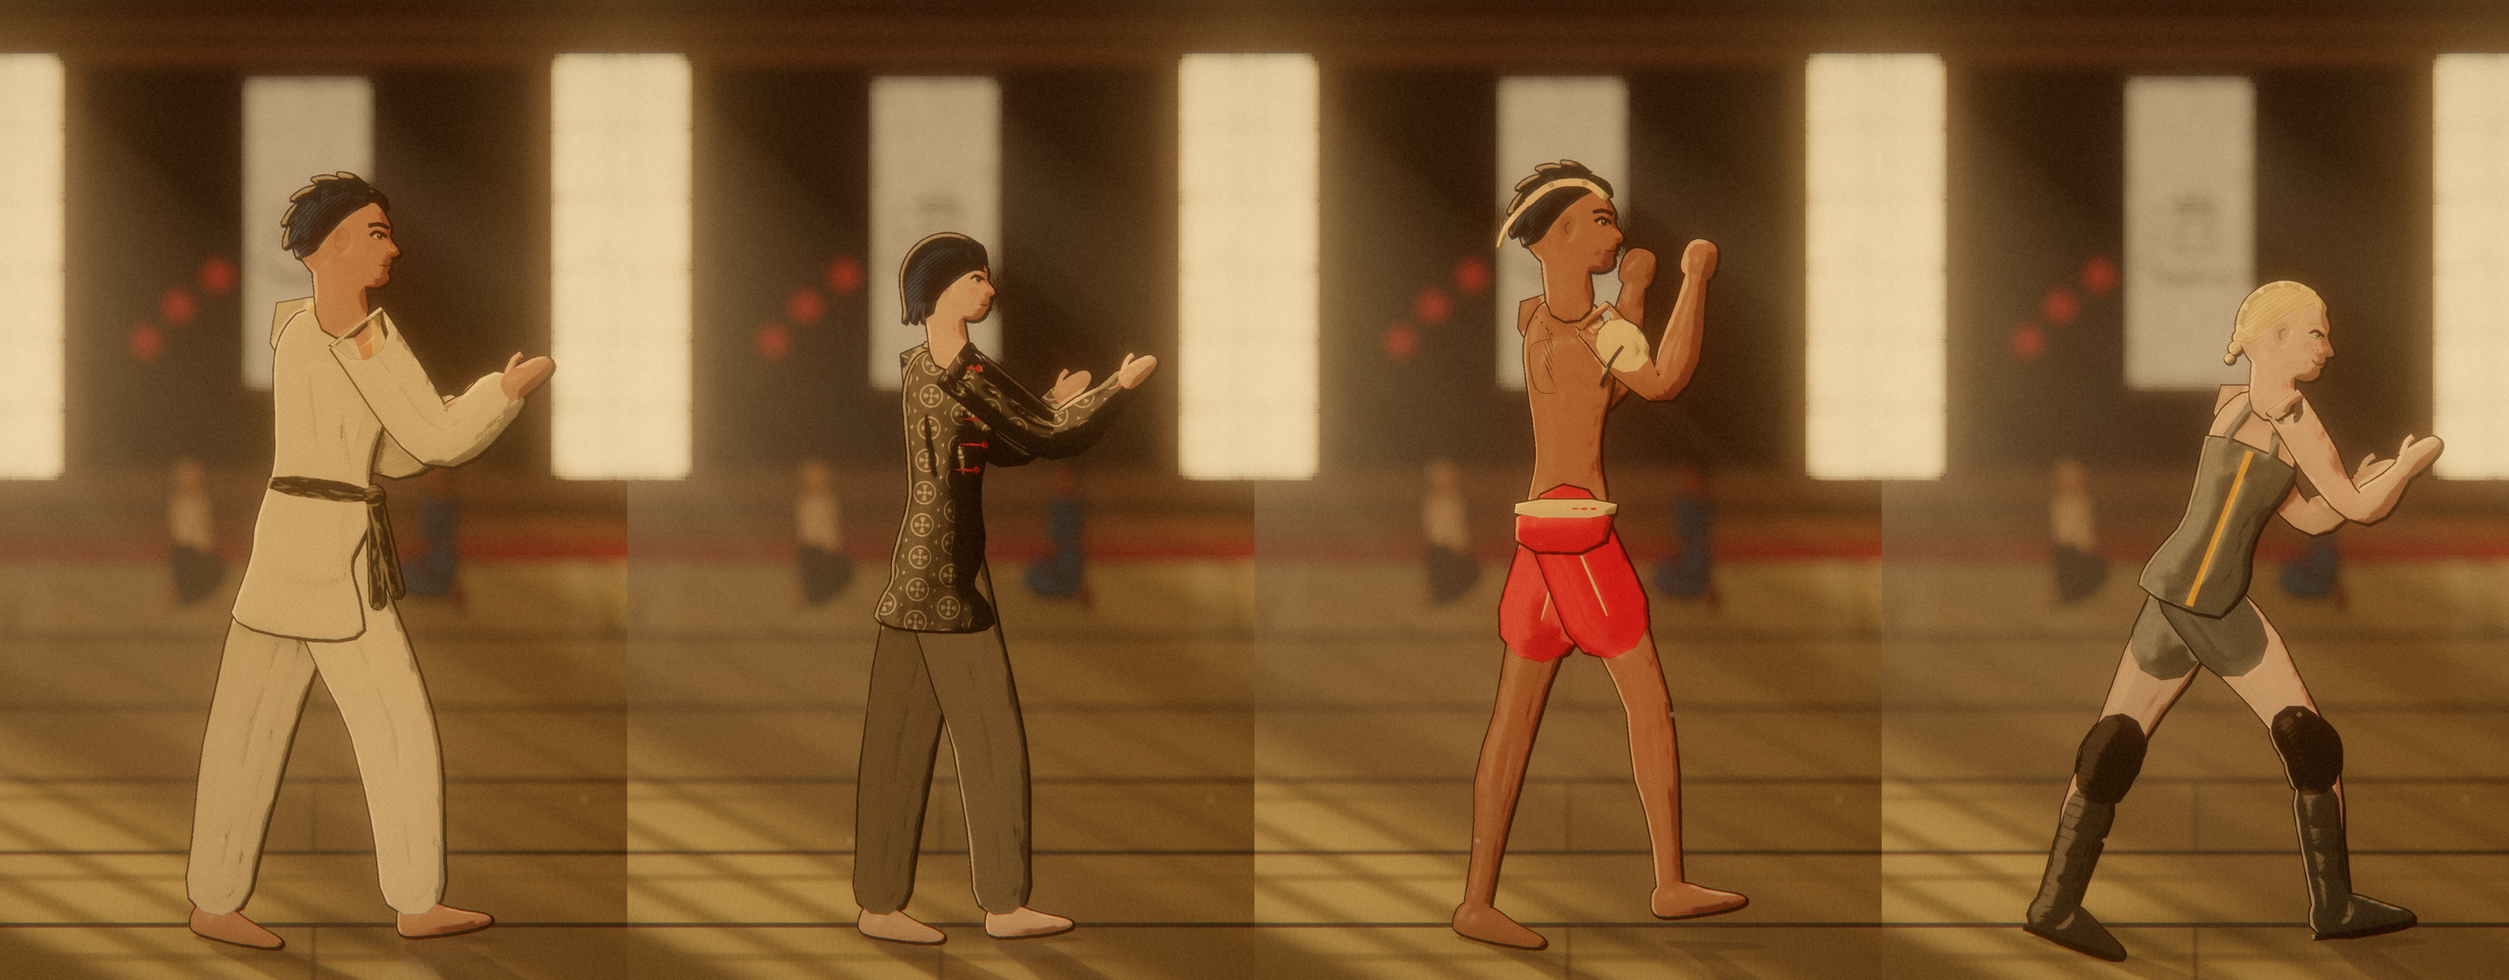
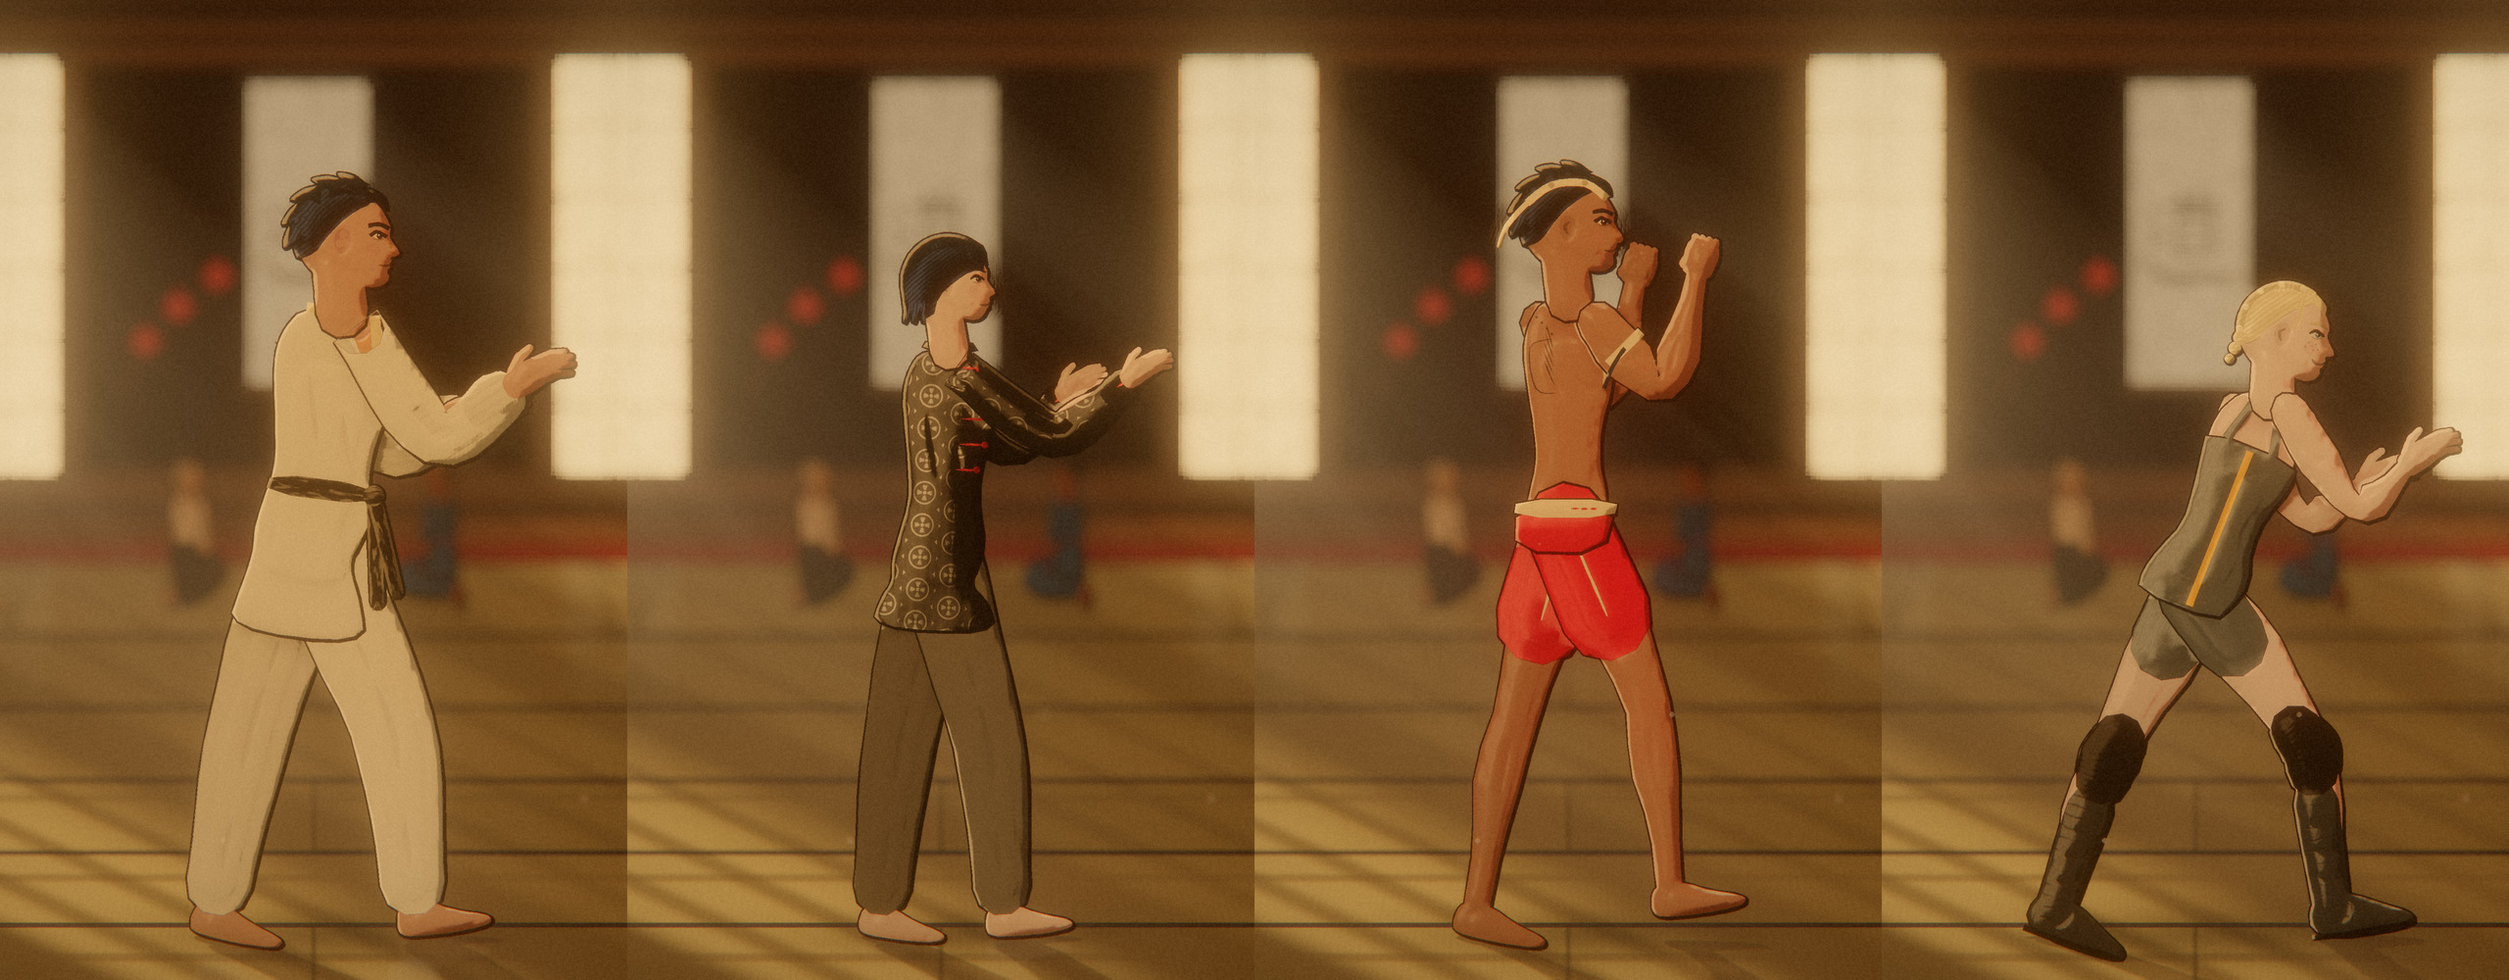
Brazos y manos anatómicos; tejidos limpios sin rayones
- Manos: mano abierta con palma, cuatro dedos de dos falanges y pulgar, cada
  pieza con su contorno (antes los dedos eran surcos que la GPU no pintaba y
  la mano quedaba en paleta); puño con dedos plegados y pulgar cruzado.
- Brazo desnudo: tríceps, bíceps, codo estrecho, antebrazo y muñeca, con
  deltoides que cubre el hombro; el cordón prajied es una banda, no un disco.
- Manga del gi: nace en la costura del hombro, cae sin bulto en el codo, se
  abre hacia el puño y lleva un puño reforzado con pespuntes.
- Cuerpo fibroso con algo más de masa en brazos y piernas.
- Tejidos: los pliegues son arrugas anchas y poco profundas en el relieve (antes
  se leían como rayones oscuros); grano, sarga, lona, lino y caída más sutiles;
  pincelada del borde de sombra y trama de la sombra más discretas.
- Carteles regenerados en 4K.

Claude-Session: https://claude.ai/code/session_01GCEmTRu6hx8Pncz6RpNkUS

diff --git a/tatamido/render_fighter.py b/tatamido/render_fighter.py
@@ -675,8 +675,10 @@ def _render_data(fig: Figure, surf, T, k, ow, fac=1, shared=None, inv=1.0, id_ba
                 pts, w, closed, taper = geo
                 P = [T(q) for q in pts]
                 if len(P) >= 2:
-                    val = (max(0, h0 - 22), pid, spec) if groove else (h0 + 4, pid, spec)
-                    wpx = max(1.0, w * k * (1.6 if groove else 1.0))
+                    # surco: pliegue o músculo ancho y poco profundo (una arruga, no un corte)
+                    gd = 12 if mat == "skin" else 8
+                    val = (max(0, h0 - gd), pid, spec) if groove else (h0 + 4, pid, spec)
+                    wpx = max(1.0, w * k * ((2.2 if mat == "skin" else 2.8) if groove else 1.0))
                     if pf is not None and not groove:
                         bp = [(x * inv, y * inv) for x, y in pf]
                     else:
@@ -688,7 +690,7 @@ def _render_data(fig: Figure, surf, T, k, ow, fac=1, shared=None, inv=1.0, id_ba
             elif kind == "dot":
                 c, r = geo
                 cc = T(c)
-                val = (max(0, h0 - 22), pid, spec) if groove else (h0 + 4, pid, spec)
+                val = (max(0, h0 - 10), pid, spec) if groove else (h0 + 4, pid, spec)
                 pygame.draw.circle(surf, val, (int(cc[0]), int(cc[1])), max(1, int(r * k)))
     return pieces
 
@@ -1396,22 +1398,6 @@ def build_figure(f, pose, rig, mono=False, raw=False) -> Figure:
     sleeve = lk.get("sleeve", 0.0) if top in ("gi", "kurtka", "changshan", "keikogi") else 0.0
     open_hand = (f.state == Fighter.THROWING or (f.state == Fighter.ATTACK and f.move is not None and f.move.anim == "grab")
                  or (lk.get("guard_open") and f.state in (Fighter.IDLE, Fighter.WALK, Fighter.INTRO)))
-    def arm_keys(L1, L2):
-        """Deltoides, tríceps detrás, bíceps delante, codo, masa del antebrazo y muñeca fina."""
-        ue = L1 / max(1e-6, L1 + L2)
-        back = [(0.0, up0 * 1.05), (ue * 0.45, up0 * 0.92 + upb * 0.6), (ue * 0.9, up1 * 1.05), (ue, up1 * 0.95),
-                (ue + (1 - ue) * 0.25, fo0 + fob * 0.5), (1.0, fo1)]
-        front = [(0.0, up0), (ue * 0.5, up0 * 0.9 + upb), (ue * 0.9, up1), (ue, up1 * 0.92),
-                 (ue + (1 - ue) * 0.22, fo0 * 1.05 + fob), (1.0, fo1)]
-        return back, front
-
-    def with_delt(keys_l, keys_r, D0, sh, rest, r0):
-        """Antepone el tramo del deltoides (de dentro del hombro a la articulación) a un perfil de brazo."""
-        Ld = dist(D0, sh)
-        tot = max(1e-6, Ld + rest)
-        f_ = lambda ks: [(0.0, r0)] + [((Ld + u * rest) / tot, v) for u, v in ks]
-        return f_(keys_l), f_(keys_r)
-
     def hand_frame(el, hd):
         fx_, fy_ = _norm(hd[0] - el[0], hd[1] - el[1])
         if fx_ == 0 and fy_ == 0:
@@ -1425,49 +1411,72 @@ def build_figure(f, pose, rig, mono=False, raw=False) -> Figure:
         sk = C(skin, el[0], depth)
         fore_sk = mixc(sk, (205, 80, 70), min(0.4, 0.4 * red)) if not mono else sk
         L1, L2 = dist(sh, el), dist(el, hd)
+        fx_, fy_ = _norm(el[0] - sh[0], el[1] - sh[1])
+        cap = (sh[0] - fx_ * B["delt"] * 0.35, sh[1] - fy_ * B["delt"] * 0.35)     # remate del hombro, tapado por el torso
         if sleeve > 0:
-            slc = C(cloth, el[0], depth)
-            fig.ribbon(g, [el, _lerp2(el, hd, 0.5), hd], [(0, fo0 + fob * 0.5), (0.3, fo0 + fob * 0.6), (1, fo1)],
-                       [(0, fo0), (0.3, fo0 + fob), (1, fo1)], fore_sk, sheen=skin_sheen)
+            # antebrazo que asoma por la manga
+            fig.ribbon(g, [el, _lerp2(el, hd, 0.5), hd], [(0, fo0 + fob * 0.5), (0.3, fo0 + fob * 0.6), (0.85, fo1 * 0.95), (1, fo1 * 0.9)],
+                       [(0, fo0), (0.3, fo0 + fob), (0.85, fo1 * 0.95), (1, fo1 * 0.9)], fore_sk, sheen=skin_sheen)
             fig.m("cloth")
+            slc = C(cloth, el[0], depth)
             cut = _lerp2(el, hd, sleeve)
-            wide = 3.6 if top != "changshan" else 1.6
-            ue = L1 / max(1e-6, L1 + dist(el, cut))
-            D0 = _lerp2(sh, N, 0.16)
-            kl_, kr_ = with_delt([(0, B["delt"] + 2.0), (ue * 0.6, up0 + 2.2), (ue, up1 + 3.2), (1, fo1 + wide)],
-                                 [(0, B["delt"] + 1.6), (ue * 0.6, up0 + 2.6), (ue, up1 + 2.6), (1, fo1 + wide - 0.4)],
-                                 D0, sh, L1 + dist(el, cut), B["delt"] + 1.0)
-            fig.ribbon(g, [D0, sh, el, cut], kl_, kr_, slc, sheen=0.5, edge=True)
+            wide = 3.4 if top != "changshan" else 1.4
+            Ls = dist(cap, sh) + L1 + dist(el, cut)
+            us, ue = dist(cap, sh) / Ls, (dist(cap, sh) + L1) / Ls
+            # manga de caída: hombro redondo, sin bulto en el codo, se abre hacia el puño y cuelga por debajo
+            fig.ribbon(g, [cap, sh, el, cut],
+                       [(0, B["delt"] + 0.5), (us, B["delt"] + 0.6), (ue * 0.75, up0 + 2.2), (ue, up1 + 2.8), (1, fo1 + wide + 0.6)],
+                       [(0, B["delt"] + 0.3), (us, B["delt"] + 0.4), (ue * 0.75, up0 + 1.9), (ue, up1 + 2.2), (1, fo1 + wide - 0.2)],
+                       slc, sheen=0.5, edge=True)
+            # puño de la manga: refuerzo con pespuntes
+            fig.m("cloth", pat="stitch")
+            c0 = _lerp2(el, cut, 0.84)
+            fig.ribbon(g, [c0, _lerp2(c0, cut, 0.5), cut], [(0, fo1 + wide + 0.5), (1, fo1 + wide + 0.75)],
+                       [(0, fo1 + wide - 0.2), (1, fo1 + wide - 0.05)], shade(slc, 0.95), sheen=0.4)
             fig.m("cloth", True)
-            # pliegues de la manga: en zigzag junto al codo, como tela que se recoge
-            fig.line(g, [_lerp2(sh, el, 0.5), _lerp2(sh, el, 0.82), _lerp2(el, cut, 0.12)], shade(slc, 0.78), 0.45)
-            fig.line(g, [_lerp2(el, cut, 0.25), _lerp2(el, cut, 0.4)], shade(slc, 0.8), 0.4)
-            fig.line(g, [_lerp2(sh, el, 0.2), _lerp2(sh, el, 0.38)], shade(slc, 0.82), 0.35)
+            fig.line(g, [_lerp2(sh, el, 0.72), _lerp2(el, cut, 0.06), _lerp2(el, cut, 0.22)], shade(slc, 0.8), 0.9)   # pliegue del codo
             if top == "changshan":
                 fig.m("cloth")
                 fig.line(g, [_lerp2(el, cut, 0.9), cut], C(lk["accent"], el[0], depth), 0.5)
         else:
             fig.m("skin")
-            kb, kf = arm_keys(L1, L2)
-            kb[0] = (0.0, B["delt"] * 1.02)
-            kf[0] = (0.0, B["delt"] * 0.92)
-            D0 = _lerp2(sh, N, 0.16)
-            kb, kf = with_delt(kb, kf, D0, sh, L1 + L2, B["delt"] * 0.8)
-            fig.ribbon(g, [D0, sh, el, hd], kb, kf, fore_sk if red > 0.15 else sk, sheen=skin_sheen)
+            arm_c = fore_sk if red > 0.15 else sk
+            ue = L1 / max(1e-6, L1 + L2)
+            # brazo: tríceps detrás, bíceps delante, codo estrecho, masa del antebrazo y muñeca fina
+            back = [(0.0, up0 * 1.02), (ue * 0.4, up0 * 0.98 + upb * 0.7), (ue * 0.85, up1 * 0.95), (ue, up1 * 0.82),
+                    (ue + (1 - ue) * 0.22, fo0 + fob * 0.45), (ue + (1 - ue) * 0.7, fo1 * 1.1), (1.0, fo1 * 0.85)]
+            front = [(0.0, up0 * 0.95), (ue * 0.55, up0 * 0.92 + upb), (ue * 0.88, up1 * 0.92), (ue, up1 * 0.8),
+                     (ue + (1 - ue) * 0.25, fo0 * 1.02 + fob), (ue + (1 - ue) * 0.72, fo1 * 1.08), (1.0, fo1 * 0.85)]
+            fig.ribbon(g, [sh, el, hd], back, front, arm_c, sheen=skin_sheen)
+            # deltoides: la cápsula del hombro que cubre la articulación
+            dtip = _lerp2(sh, el, 0.45)
+            fig.ribbon(g, [cap, sh, dtip], [(0, B["delt"] * 0.6), (0.35, B["delt"] * 0.92), (1, up0 * 0.55)],
+                       [(0, B["delt"] * 0.55), (0.35, B["delt"] * 0.85), (1, up0 * 0.5)], arm_c, sheen=skin_sheen)
             if "definido" in ex or lk["body"] in ("atleta", "pesado", "fibroso"):
                 fig.m("skin", True)
-                fig.line(g, [_lerp2(sh, el, 0.15), _lerp2(sh, el, 0.4), _lerp2(sh, el, 0.62)], shade(sk, 0.82), 0.32)
-                fig.line(g, [_lerp2(el, hd, 0.12), _lerp2(el, hd, 0.42)], shade(sk, 0.84), 0.28)
+                fig.line(g, [_lerp2(sh, el, 0.3), _lerp2(sh, el, 0.55), _lerp2(sh, el, 0.75)], shade(sk, 0.82), 0.5)
+                fig.line(g, [_lerp2(el, hd, 0.1), _lerp2(el, hd, 0.4)], shade(sk, 0.84), 0.45)
         if "prajied" in ex:
             fig.m("cloth")
             c1, c2 = lk["band"]
-            pa = _lerp2(sh, el, 0.3)
-            pb = _lerp2(sh, el, 0.42)
-            fig.tube(g, pa, pb, up0 + 0.9, up0 + 0.8, C(c1, el[0], depth), sheen=0.8)
+            pa = _lerp2(sh, el, 0.34)
+            pb = _lerp2(sh, el, 0.44)
+            # cordón trenzado que abraza el bíceps: una banda, no un disco
+            nx_, ny_ = -fy_, fx_
+            ra_, rb_ = up0 + 0.45, up0 + 0.35
+            band = [(pa[0] + nx_ * ra_, pa[1] + ny_ * ra_), (pb[0] + nx_ * rb_, pb[1] + ny_ * rb_),
+                    (pb[0] - nx_ * rb_, pb[1] - ny_ * rb_), (pa[0] - nx_ * ra_, pa[1] - ny_ * ra_)]
+            fig.poly(g, band, C(c1, el[0], depth), sheen=0.8, smooth=0)
+            fig.m("cloth", True)
+            for q_ in (0.3, 0.7):
+                m_ = _lerp2(pa, pb, q_)
+                fig.line(g, [(m_[0] + nx_ * ra_, m_[1] + ny_ * ra_), (m_[0] - nx_ * ra_, m_[1] - ny_ * ra_)], shade(C(c1, el[0], depth), 0.8), 0.3)
+            fig.m("cloth")
             fig.line(g, [_lerp2(pa, pb, 0.5), (pa[0] - 2 - vxl, pa[1] + 5), (pa[0] - 4 - vxl * 1.5, pa[1] + 10)], C(c2, el[0], depth), 0.8)
         # mano
         HF = hand_frame(el, hd)
         hs = B["hand"] / 4.3
+        nail = mixc(fore_sk, (238, 210, 200), 0.35)
         if "guantes" in ex:
             fig.m("leather")
             gc = C("#1A1A1A", hd[0], depth)
@@ -1478,21 +1487,36 @@ def build_figure(f, pose, rig, mono=False, raw=False) -> Figure:
             fig.line(g, [HF(6.0 * hs, -3.0 * hs), HF(7.4 * hs, 0), HF(6.0 * hs, 3.0 * hs)], shade(gc, 1.6), 0.3)
         elif open_hand:
             fig.m("skin")
-            palm = [HF(a * hs, b * hs) for a, b in ((-2, -3.2), (4, -3.6), (10, -2.6), (11.2, -0.5), (10.2, 1.6), (4, 3.1), (-2, 3.0))]
+            H_ = lambda a, b: HF(a * hs, b * hs)
+            palm = [H_(a, b) for a, b in ((-1.5, -2.8), (3.5, -3.7), (8.6, -3.3), (9.4, -1.0), (9.2, 1.6), (8.4, 3.3), (3.5, 3.4), (-1.5, 2.7))]
             fig.poly(g, palm, fore_sk, sheen=skin_sheen, smooth=2)
+            # dedos delante de la palma, de meñique a índice: dos falanges con curva y contorno propio
+            for bk, ln, rr in ((2.45, 5.6, 0.82), (0.82, 7.0, 0.9), (-0.82, 7.6, 0.93), (-2.45, 7.0, 0.9)):
+                k0 = H_(7.6, bk)
+                k1 = H_(7.6 + ln * 0.6, bk + 0.3 + ln * 0.05)
+                k2 = H_(7.6 + ln * 1.0, bk + 1.2 + ln * 0.12)
+                fig.tube(g, k0, k1, rr * hs, rr * 0.93 * hs, fore_sk, sheen=skin_sheen * 0.6)
+                fig.tube(g, k1, k2, rr * 0.93 * hs, rr * 0.78 * hs, fore_sk, sheen=skin_sheen * 0.6)
+            # pulgar: sale de la base de la palma y se abre hacia delante
+            t0, t1, t2 = H_(2.0, -2.6), H_(5.4, -4.9), H_(8.4, -5.4)
+            fig.tube(g, t0, t1, 1.35 * hs, 1.15 * hs, fore_sk, sheen=skin_sheen * 0.6)
+            fig.tube(g, t1, t2, 1.12 * hs, 0.9 * hs, fore_sk, sheen=skin_sheen * 0.6)
             fig.m("skin", True)
-            for b in (-1.6, -0.1, 1.3):
-                fig.line(g, [HF(5.8 * hs, b * hs), HF(10.2 * hs, b * hs * 0.9)], shade(fore_sk, 0.75), 0.28)
-            fig.m("skin")
-            fig.line(g, [HF(1.0 * hs, -3.2 * hs), HF(4.0 * hs, -5.0 * hs), HF(6.2 * hs, -5.2 * hs)], fore_sk, 1.5 * hs, taper=False)
+            fig.line(g, [H_(3.0, 0.8), H_(6.0, 0.2), H_(8.6, 0.9)], shade(fore_sk, 0.8), 0.45)        # línea de la palma
         else:
             fig.m("skin")
-            fist = [HF((a - 3) * hs, b * hs) for a, b in ((-1.5, -3.6), (3.5, -4.4), (7.5, -3.2), (8.4, 0), (7.5, 3.4), (3, 4.2), (-1.5, 3.6))]
+            H_ = lambda a, b: HF((a - 2.6) * hs, b * hs)
+            fist = [H_(a, b) for a, b in ((-1.6, -3.4), (3.0, -4.1), (6.6, -3.9), (7.9, -2.4), (8.2, 0.6), (7.6, 3.3), (5.4, 4.3), (1.2, 4.0), (-1.6, 3.2))]
             fig.poly(g, fist, fore_sk, sheen=skin_sheen, smooth=2)
-            fig.m("skin", True)
-            for b in (-2.2, -0.4, 1.4):
-                fig.line(g, [HF(3.4 * hs, b * hs), HF(5.0 * hs, (b + 0.8) * hs)], shade(fore_sk, 0.72), 0.28)   # dedos
-            fig.line(g, [HF(-1.0 * hs, -3.0 * hs), HF(1.8 * hs, -2.0 * hs), HF(3.6 * hs, -0.6 * hs)], shade(fore_sk, 0.75), 0.35)  # pulgar
+            # dedos plegados sobre la cara del puño: cuatro falanges redondeadas, cada una con su contorno
+            for i, bk in enumerate((-2.55, -0.85, 0.85, 2.55)):
+                r_ = (0.98 - 0.06 * abs(i - 1.5)) * hs
+                fig.tube(g, H_(8.0, bk), H_(5.2, bk + 0.5), r_, r_ * 0.95, fore_sk, sheen=skin_sheen * 0.6)
+            # pulgar cruzado sobre índice y corazón
+            fig.tube(g, H_(1.0, -3.4), H_(4.4, -2.3), 1.3 * hs, 1.15 * hs, fore_sk, sheen=skin_sheen * 0.6)
+            fig.tube(g, H_(4.4, -2.3), H_(6.6, -0.2), 1.12 * hs, 0.95 * hs, fore_sk, sheen=skin_sheen * 0.6)
+            fig.m("skin")
+            fig.dot(g, H_(6.6, -0.2), 0.42 * hs, nail)
         if "manchas" in ex:
             fig.dot(g, (hd[0] - 1, hd[1] - 1), 0.5, shade(fore_sk, 0.8))
     return fig

diff --git a/tatamido/gpu.py b/tatamido/gpu.py
@@ -293,14 +293,14 @@ void weave(int pat, vec2 q, float pxcm, float seed, float wcm, out float h, out 
         float v = vis(0.8, pxcm);
         float t = hash12(floor(c) + seed);
         float zone = 0.55 + 0.45 * smoothstep(0.3, 0.7, vnoise(q * 0.07 + seed));   // el grano se marca más donde tira la tela
-        h = (grain * grain * 0.5 - 0.18) * v * zone + drape(q, seed, 1.25) * 0.9;
-        ak = 1. + v * zone * (0.09 * grain - 0.05 + 0.03 * (t - 0.5));
-        sk = mix(1., 0.55 + 0.6 * grain, v);
+        h = (grain * grain * 0.3 - 0.1) * v * zone + drape(q, seed, 1.25) * 0.5;
+        ak = 1. + v * zone * (0.045 * grain - 0.025 + 0.015 * (t - 0.5));
+        sk = mix(1., 0.7 + 0.4 * grain, v);
     } else if (pat == 2) {                           // sarga: costillas en diagonal
         float wale = bump1((q.x * 0.7 + q.y) / 1.1);
         float v = vis(1.1, pxcm);
-        h = wale * 0.35 * v + drape(q, seed, 1.0) * 0.85;
-        ak = 1. + v * (0.08 * wale - 0.04);
+        h = wale * 0.2 * v + drape(q, seed, 1.0) * 0.5;
+        ak = 1. + v * (0.04 * wale - 0.02);
     } else if (pat == 3) {                           // lona de cesta: parejas de hilos que alternan
         vec2 c = q / 1.6;
         vec2 ci = floor(c), f = fract(c);
@@ -308,14 +308,14 @@ void weave(int pat, vec2 q, float pxcm, float seed, float wcm, out float h, out 
         float rib = bump1(u * 2.);
         float e = smoothstep(0., 0.12, min(min(f.x, 1. - f.x), min(f.y, 1. - f.y)));
         float v = vis(0.8, pxcm);
-        h = (rib * e * 0.45 - 0.2) * v + drape(q, seed, 1.5) * 0.8;
-        ak = 1. + v * (0.11 * rib * e - 0.06);
+        h = (rib * e * 0.28 - 0.12) * v + drape(q, seed, 1.5) * 0.5;
+        ak = 1. + v * (0.05 * rib * e - 0.03);
     } else if (pat == 4) {                           // punto de canalé
         float y = q.y / 0.9;
         float rib = bump1(y);
         float v = vis(0.9, pxcm);
-        h = rib * 0.4 * v + drape(q, seed, 0.8) * 0.6;
-        ak = 1. + v * (0.08 * rib - 0.04);
+        h = rib * 0.25 * v + drape(q, seed, 0.8) * 0.4;
+        ak = 1. + v * (0.04 * rib - 0.02);
     } else if (pat == 5) {                           // damasco de seda: medallones tono sobre tono
         vec2 c = q / 8.;
         c.x += mod(floor(c.y), 2.) * 0.5;
@@ -339,8 +339,8 @@ void weave(int pat, vec2 q, float pxcm, float seed, float wcm, out float h, out 
         float slub = smoothstep(0.55, 0.8, vnoise(vec2(ri * 3.7, q.y * 0.22 + seed)));
         float warp = bump1(q.y / 1.3);
         float v = vis(1.1, pxcm);
-        h = (thread * 0.35 + warp * 0.12 + slub * 0.3) * v + drape(q, seed, 1.3) * 0.75;
-        ak = 1. + v * (0.1 * (hash12(vec2(ri, seed + 3.)) - 0.5) + 0.06 * slub - 0.05 * (1. - thread));
+        h = (thread * 0.18 + warp * 0.08 + slub * 0.18) * v + drape(q, seed, 1.3) * 0.5;
+        ak = 1. + v * (0.035 * (hash12(vec2(ri, seed + 3.)) - 0.5) + 0.03 * slub - 0.02 * (1. - thread));
     } else if (pat == 7 || pat == 16) {              // cinturón: pespuntes paralelos a lo largo
         float rows = q.y / 0.7;
         float line = 1. - smoothstep(0.06, 0.2, abs(fract(rows) - 0.5));
@@ -398,8 +398,8 @@ void weave(int pat, vec2 q, float pxcm, float seed, float wcm, out float h, out 
     } else if (pat == 15) {                          // algodón de tafetán
         float wv = bump1(q.x / 0.9) * bump1(q.y / 0.9);
         float v = vis(0.9, pxcm);
-        h = wv * 0.25 * v + drape(q, seed, 1.1) * 0.8;
-        ak = 1. + v * (0.05 * wv - 0.025);
+        h = wv * 0.15 * v + drape(q, seed, 1.1) * 0.5;
+        ak = 1. + v * (0.03 * wv - 0.015);
     }
     // ── segunda octava: el hilo. Sólo aparece cuando hay píxeles para verlo (1440p, 4K, Modo Foto) ──
     float vf = vis(0.32, pxcm);
@@ -489,11 +489,11 @@ vec3 litFighter(vec2 p, vec4 fg) {
     float br2 = vnoise(vec2(q.x * 0.45, q.y * 2.1) + seed * 5.7) * vis(0.5, pxcm);
     // ── rampa de dos tonos (anime 2026): borde pintado, sombra de color desplazado ──
     float soft = mat == 1 ? 0.15 : 0.09;
-    float term = ndl + paint * ((br - 0.5) * 0.32 + (br2 - 0.25) * 0.14);
+    float term = ndl + paint * ((br - 0.5) * 0.16 + (br2 - 0.25) * 0.05);
     float lit = smoothstep(-0.08 - soft, -0.08 + soft, term) * mix(1.0, ao, 0.6);
     vec3 amb = mix(uBounce, uSky, N.y * 0.5 + 0.5) * ao;
     vec3 shTint = mat == 1 ? vec3(1.06, 0.74, 0.68) : mat == 5 ? vec3(0.9, 0.86, 1.05) : vec3(0.84, 0.9, 1.08);
-    vec3 shadowCol = alb * (amb * 1.15 + uKey * 0.1) * shTint * (1. + paint * 0.16 * (br - 0.5));
+    vec3 shadowCol = alb * (amb * 1.15 + uKey * 0.1) * shTint * (1. + paint * 0.06 * (br - 0.5));
     vec3 litCol = alb * (amb + uKey * (0.82 + 0.18 * max(ndl, 0.)));
     vec3 col = mix(shadowCol, litCol, lit);
     if (mat == 1) {

diff --git a/tatamido/anatomy.py b/tatamido/anatomy.py
@@ -17,7 +17,7 @@ BODIES = {
                    neck=5.6, head=11.0, hand=4.3, delt=5.6),
     "fibroso": dict(front=[5.5, 7.5, 9.0, 7.0, 7.5, 10.0, 9.5, 7.5, 5.0],
                     back=[9.5, 10.0, 9.0, 7.0, 8.0, 9.5, 10.5, 9.0, 5.5],
-                    thigh=(7.4, 4.8, 1.6), calf=(4.6, 2.7, 1.6), upper=(4.4, 3.2, 1.2), fore=(3.8, 2.3, 1.0),
+                    thigh=(7.9, 5.0, 1.8), calf=(4.9, 2.8, 1.8), upper=(4.8, 3.5, 1.4), fore=(4.1, 2.45, 1.1),
                     neck=5.0, head=10.8, hand=4.0, delt=5.0),
     "atleta_f": dict(front=[6.0, 8.5, 10.0, 7.5, 7.8, 10.6, 10.0, 7.5, 5.0],
                      back=[11.5, 12.0, 10.5, 7.5, 8.2, 9.5, 10.5, 9.0, 5.4],
